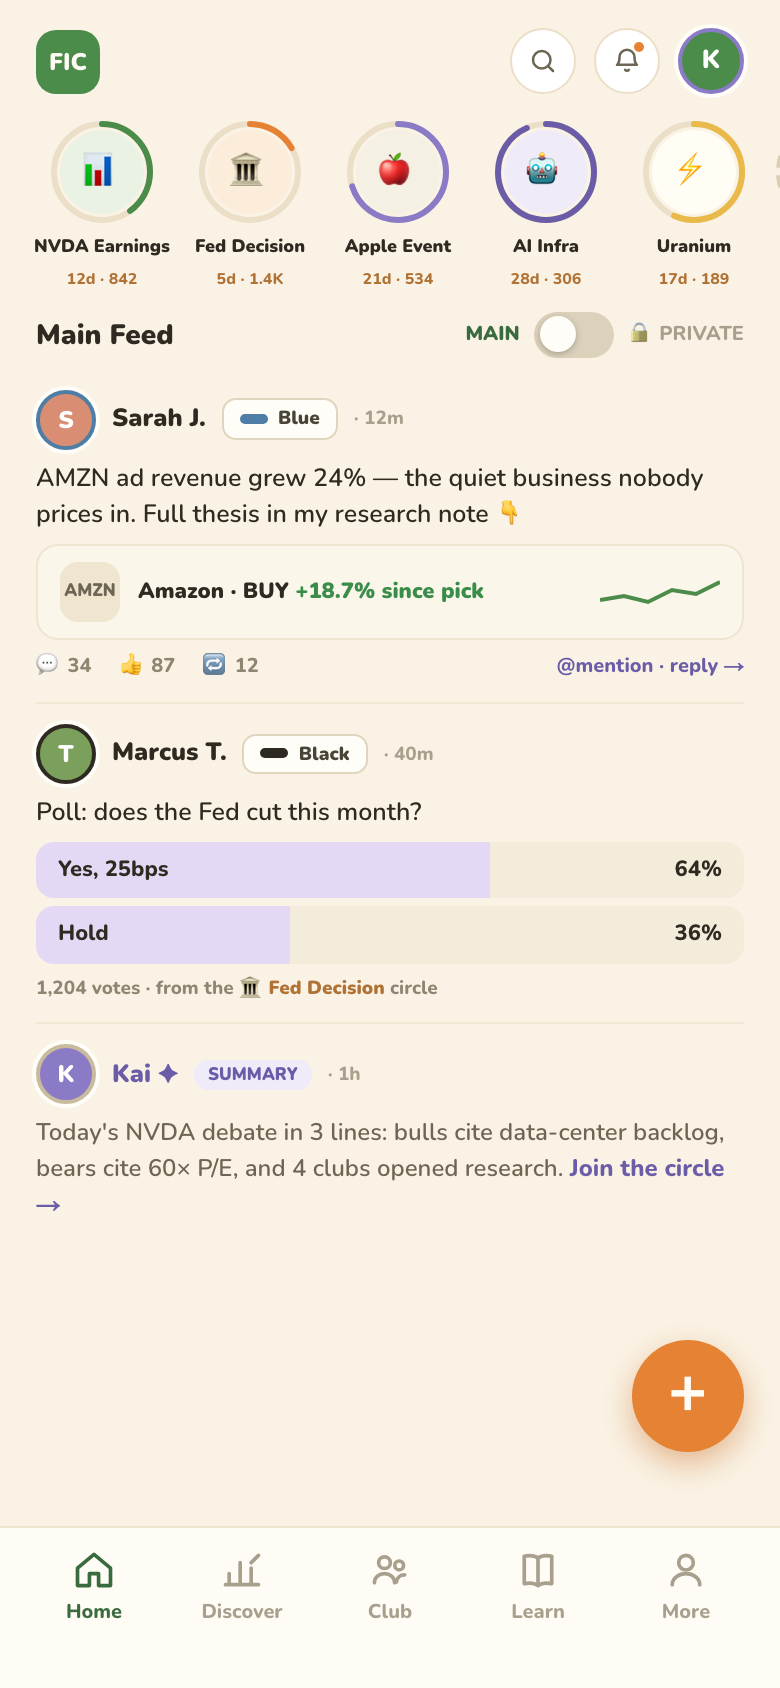
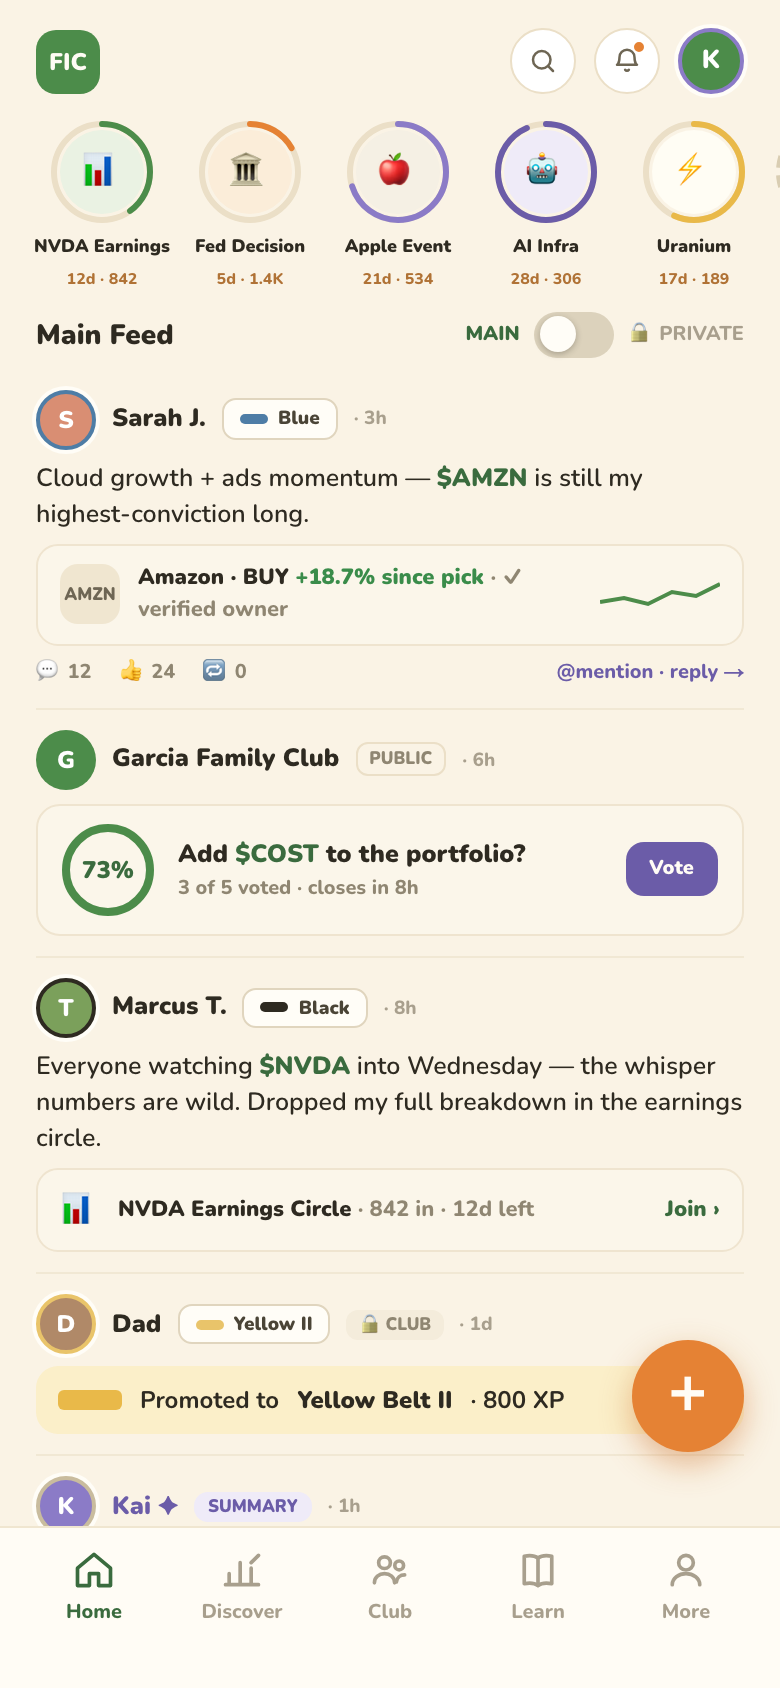
feat: prototype v3 leftovers — v3 main-feed posts, exact private club feed, ACT label, ceg-nuclear pick, share lands on the private feed

diff --git a/src/components/home/HomeV4.tsx b/src/components/home/HomeV4.tsx
@@ -5,7 +5,8 @@ import { cx } from "@/components/ui";
 import { BellIcon, SearchIcon } from "@/components/ui/icons";
 import { BarChip, RingAvatar } from "@/components/community/BarChip";
 import { CirclesRail } from "@/components/circles/CircleRing";
-import { circles, mainFeed, clubChat, type FeedPost } from "@/lib/fixtures/v12-social";
+import { circles, mainFeed, type FeedPost } from "@/lib/fixtures/v12-social";
+import { privateFeed } from "@/lib/fixtures/v12-social";
 import { openSheet } from "@/components/sheets/bus";
 import type { BeltColor } from "@/lib/types";
 
@@ -72,6 +73,12 @@ export function HomeV4({ belt, clubName, initialFeed, openProposal }: { belt: Be
   );
 }
 
+/** $TICKER mentions tap to the company page. */
+function Cash({ t }: { t: string }) {
+  const parts = t.split(/(\$[A-Z]{1,5})/g);
+  return <>{parts.map((x, i) => /^\$[A-Z]{1,5}$/.test(x) ? <Link key={i} href={`/discover/${x.slice(1)}`} className="text-green font-black">{x}</Link> : <span key={i}>{x}</span>)}</>;
+}
+
 function Author({ a }: { a: FeedPost extends infer T ? (T extends { author: infer A } ? A : never) : never }) {
   const x = a as { name: string; initial: string; bg: string; belt: BeltColor | null; beltLabel?: string };
   return (
@@ -100,6 +107,37 @@ function Post({ p, last }: { p: FeedPost; last: boolean }) {
       </div>
     );
   }
+  if (p.kind === "clubvote") {
+    return (
+      <div className={row}>
+        <div className="flex items-center gap-2"><RingAvatar initial={p.initial} bg="bg-green-2" ring={null} size={30} /><span className="text-[12.5px] font-black text-ink">{p.club}</span><span className="rounded-[6px] border border-line px-[6px] py-[1px] text-[8.5px] font-black text-ink-3">PUBLIC</span><span className="text-[9.5px] font-extrabold text-ink-4">· {p.ago}</span></div>
+        <div className="mt-[7px] flex items-center gap-3 bg-[#FBF6EA] border border-[#EFE4CF] rounded-[12px] px-3 py-[9px]">
+          <span className="w-[46px] h-[46px] rounded-full border-[4px] border-green-2 flex items-center justify-center text-[12px] font-black text-green shrink-0">{p.pct}%</span>
+          <span className="flex-1"><span className="block text-[12.5px] font-black text-ink"><Cash t={p.question} /></span><span className="block text-[10px] font-extrabold text-ink-3">{p.voted} of {p.eligible} voted · closes in {p.closesIn}</span></span>
+          <Link href={`/discover/${p.symbol}`} className="rounded-[9px] bg-purple-2 text-cream-text px-3 py-[6px] text-[10px] font-black">Vote</Link>
+        </div>
+      </div>
+    );
+  }
+  if (p.kind === "circleref") {
+    return (
+      <div className={row}>
+        <div className="flex items-center gap-2"><Author a={p.author} /><span className="text-[9.5px] font-extrabold text-ink-4">· {p.ago}</span></div>
+        <p className="mt-[5px] text-[12.5px] font-semibold text-ink leading-[1.45]"><Cash t={p.text} /></p>
+        <Link href={`/circle/${p.circleId}`} className="mt-[6px] flex items-center gap-[9px] bg-[#FBF6EA] border border-[#EFE4CF] rounded-[11px] px-[11px] py-2">
+          <span className="text-[16px]">📊</span><span className="flex-1 text-[11px] font-black text-ink">{p.circleLabel} <span className="text-ink-3 font-extrabold">· {p.people} in · {p.daysLeft}d left</span></span><span className="text-[11px] font-black text-green">Join ›</span>
+        </Link>
+      </div>
+    );
+  }
+  if (p.kind === "promotion") {
+    return (
+      <div className={row}>
+        <div className="flex items-center gap-2"><Author a={p.author} /><span className="rounded-[6px] bg-paper-2 px-[6px] py-[1px] text-[8.5px] font-black text-ink-3">{p.scope}</span><span className="text-[9.5px] font-extrabold text-ink-4">· {p.ago}</span></div>
+        <div className="mt-[6px] flex items-center gap-[9px] bg-[#FBEFC9] rounded-[11px] px-[11px] py-2 text-[12px] font-bold text-ink"><span className="w-8 h-[10px] rounded-[3px] bg-[#E9B949]" />Promoted to <b className="font-black">{p.toBelt}</b> · {p.xp} XP <span className="ml-auto">🎉</span></div>
+      </div>
+    );
+  }
   if (p.kind === "poll") {
     return (
       <div className={row}>
@@ -120,11 +158,11 @@ function Post({ p, last }: { p: FeedPost; last: boolean }) {
   return (
     <div className={row}>
       <div className="flex items-center gap-2"><Author a={p.author} /><span className="text-[9.5px] font-extrabold text-ink-4">· {p.ago}</span></div>
-      <p className="mt-[5px] text-[12.5px] font-semibold text-ink leading-[1.45]">{p.text}</p>
+      <p className="mt-[5px] text-[12.5px] font-semibold text-ink leading-[1.45]"><Cash t={p.text} /></p>
       {p.pick && (
         <Link href={`/discover/${p.pick.symbol}`} className="mt-[6px] flex items-center gap-[9px] bg-[#FBF6EA] border border-[#EFE4CF] rounded-[11px] px-[11px] py-2">
           <span className="w-[30px] h-[30px] rounded-[9px] bg-line-2 flex items-center justify-center text-[8.5px] font-black text-ink-2">{p.pick.symbol}</span>
-          <span className="flex-1 text-[11px] font-black text-ink">{p.pick.name} · {p.pick.stance} <span className="text-[#3A8C4A]">+{p.pick.sincePct}% since pick</span></span>
+          <span className="flex-1 text-[11px] font-black text-ink">{p.pick.name} · {p.pick.stance} <span className="text-[#3A8C4A]">+{p.pick.sincePct}% since pick</span> <span className="text-ink-3 font-extrabold">· ✓ verified owner</span></span>
           <svg width="60" height="16" viewBox="0 0 60 16" preserveAspectRatio="none" className="shrink-0"><polyline fill="none" stroke="#4C8C4A" strokeWidth="2" points={p.pick.spark.map((y, i) => `${i * 12},${y}`).join(" ")} /></svg>
         </Link>
       )}
@@ -151,38 +189,67 @@ function MinePost({ p, belt }: { p: LocalPost; belt: BeltColor }) {
 }
 
 function PrivateFeed({ clubName, proposal, mine, belt }: { clubName: string; proposal: { id: string; text: string; voted: number; eligible: number; hoursLeft: number } | null; mine: LocalPost[]; belt: BeltColor }) {
+  const [attach, setAttach] = useState(false);
+  const [draft, setDraft] = useState("");
+  const [sent, setSent] = useState<string[]>([]);
   return (
-    <div className="mt-[6px]">
-      {proposal && (
-        <div className="flex items-center gap-[10px] bg-purple-tint border border-purple-line rounded-[13px] px-[13px] py-[9px]">
-          <span className="text-[15px]">🗳</span>
-          <span className="flex-1 text-[11.5px] font-black text-ink">{proposal.text} · {proposal.voted}/{proposal.eligible} in</span>
-          <Link href={`/club/vote/${proposal.id}`} className="rounded-[9px] bg-purple-2 text-cream-text px-3 py-[6px] text-[10px] font-black">Vote</Link>
+    <div className="mt-[6px] relative">
+      <div className="flex items-center gap-2 bg-card border border-line rounded-[13px] px-3 py-2">
+        <span className="flex -space-x-2">{[["K", "bg-green-2"], ["D", "bg-[#B08968]"], ["A", "bg-green-3"]].map(([i, c]) => <span key={i} className={cx("w-7 h-7 rounded-full text-white text-[10px] font-black flex items-center justify-center border-2 border-[#FFFDF7]", c)}>{i}</span>)}</span>
+        <span className="flex-1"><span className="block text-[12.5px] font-black text-ink">{clubName}</span><span className="block text-[10px] font-extrabold text-green">● 3 online</span></span>
+        <Link href="/club" className="text-[11px] font-black text-green">Club page ›</Link>
+      </div>
+      <div className="mt-2 flex flex-col gap-[9px]">
+        {privateFeed.slice(0, 3).map((m) => <PrivateBubble key={m.id} m={m} />)}
+        {proposal && (
+          <div className="flex items-center gap-[10px] bg-purple-tint border border-purple-line rounded-[13px] px-[13px] py-[9px]">
+            <span className="text-[15px]">🗳</span>
+            <span className="flex-1"><span className="block text-[11.5px] font-black text-ink"><Cash t={`Vote open: $CEG 4% → 8%`} /></span><span className="block text-[10px] font-extrabold text-ink-3">{proposal.voted}/{proposal.eligible} in · {proposal.hoursLeft}h left · waiting on you</span></span>
+            <Link href={`/club/vote/${proposal.id}`} className="rounded-[9px] bg-purple-2 text-cream-text px-3 py-[6px] text-[10px] font-black">Vote</Link>
+          </div>
+        )}
+        {privateFeed.slice(3).map((m) => <PrivateBubble key={m.id} m={m} />)}
+        {mine.map((p) => <MinePost key={p.id} p={p} belt={belt} />)}
+        {sent.map((t, i) => <div key={i} className="flex justify-end"><div className="max-w-[82%] bg-green-tint border border-green-line rounded-[13px_3px_13px_13px] px-3 py-2 text-[12px] font-semibold text-ink"><Cash t={t} /></div></div>)}
+      </div>
+      <div className="mt-3 flex items-center gap-2 bg-card border border-line rounded-[14px] px-3 py-2">
+        <button type="button" onClick={() => setAttach(true)} aria-label="Attach" className="text-[16px] font-black text-ink-3">＋</button>
+        <input value={draft} onChange={(e) => setDraft(e.target.value)} onKeyDown={(e) => { if (e.key === "Enter" && draft.trim()) { setSent((x) => [...x, draft.trim()]); setDraft(""); } }} placeholder="Message the club…" className="flex-1 bg-transparent text-[12.5px] font-bold text-ink placeholder:text-ink-4 outline-none" />
+        <button type="button" onClick={() => { if (draft.trim()) { setSent((x) => [...x, draft.trim()]); setDraft(""); } }} aria-label="Send" className="w-7 h-7 rounded-full bg-green text-cream-text text-[12px] font-black">↑</button>
+      </div>
+      {attach && (
+        <div className="fixed inset-0 z-[60] flex flex-col justify-end" role="dialog" aria-label="Add to your message">
+          <button aria-label="Cancel" onClick={() => setAttach(false)} className="absolute inset-0 bg-[#2E2A21]/45" />
+          <div className="relative bg-card rounded-t-[24px] px-[18px] pt-3 pb-[calc(24px+env(safe-area-inset-bottom))] sm:max-w-[402px] sm:mx-auto sm:w-full">
+            <div className="mx-auto w-10 h-[5px] rounded-full bg-line-3" />
+            <div className="mt-3 text-[10px] font-black tracking-[0.5px] text-ink-3">{clubName.toUpperCase()}</div>
+            <div className="text-[16px] font-black text-ink">Add to your message</div>
+            {([["📷", "Photo or video", "camera roll or record now", () => setAttach(false)],
+              ["📈", "Trade idea", "structured pick card — ticker, stance, why", () => { setAttach(false); openSheet("pick", { symbol: "NVDA" }); }],
+              ["📊", "Poll", "let the club vote on anything", () => { setAttach(false); openSheet("compose", { audience: "club" }); }],
+              ["📎", "Research artifact", "attach a thesis, chart or Kai summary", () => { setAttach(false); openSheet("compose", { audience: "club" }); }]] as [string, string, string, () => void][]).map(([e, t, d, fn]) => (
+              <button key={t} type="button" onClick={fn} className="mt-2 w-full flex items-center gap-3 rounded-[13px] border border-line bg-paper px-3 py-[10px] text-left"><span className="text-[18px]">{e}</span><span className="flex-1"><span className="block text-[13px] font-black text-ink">{t}</span><span className="block text-[10.5px] font-extrabold text-ink-3">{d}</span></span><span className="text-ink-4">›</span></button>
+            ))}
+            <button onClick={() => setAttach(false)} className="mt-3 w-full h-11 rounded-[14px] bg-card border border-line text-[13px] font-black text-ink-2">Cancel</button>
+          </div>
         </div>
       )}
-      <div className="mt-2 text-center text-[9px] font-black tracking-[0.5px] text-ink-4">— TODAY —</div>
-      <div className="mt-1 flex flex-col gap-[9px]">
-        {mine.map((p) => <MinePost key={p.id} p={p} belt={belt} />)}
-        {clubChat.map((m) => (
-          <div key={m.id}>
-            <div className="flex gap-2">
-              <RingAvatar initial={m.author.initial} bg={m.author.bg} ring={m.author.belt} size={28} />
-              <div className="max-w-[82%]">
-                <div className="bg-card border border-line rounded-[3px_13px_13px_13px] px-3 py-2">
-                  <div className="text-[10px] font-black text-ink">{m.author.name}</div>
-                  <div className="text-[12px] font-semibold text-ink leading-[1.4] mt-[2px]">{m.text}</div>
-                  {m.artifact && <div className="mt-1 inline-flex items-center gap-[6px] bg-[#FBF6EA] rounded-[9px] px-[9px] py-[5px] text-[10px] font-black text-ink-2"><span className="rounded-[6px] bg-line-2 px-[6px] py-[1px] text-[8.5px]">{m.artifact.symbol}</span><span className="text-[#3A8C4A]">{m.artifact.line}</span></div>}
-                </div>
-                {m.readBy && <div className="text-[9px] font-extrabold text-ink-4 mt-[2px] text-right">read by {m.readBy}</div>}
-              </div>
-            </div>
-            {m.system && <div className="mt-[6px] text-center text-[9.5px] font-black text-[#7A5A00] bg-[#FBEFC9] rounded-[9px] px-3 py-[5px]">{m.system}</div>}
-          </div>
-        ))}
+    </div>
+  );
+}
+
+function PrivateBubble({ m }: { m: (typeof privateFeed)[number] }) {
+  if (m.mine) return <div className="flex justify-end"><div className="max-w-[82%] bg-green-tint border border-green-line rounded-[13px_3px_13px_13px] px-3 py-2"><div className="text-[12px] font-semibold text-ink"><Cash t={m.text} /></div></div></div>;
+  return (
+    <div className="flex gap-2">
+      <RingAvatar initial={m.initial} bg={m.bg} ring={m.belt} size={28} />
+      <div className="max-w-[82%]">
+        <div className="bg-card border border-line rounded-[3px_13px_13px_13px] px-3 py-2">
+          <div className="text-[10px] font-black text-ink">{m.name}{m.grad ? " 🎓" : ""} <span className="text-ink-4 font-extrabold">· {m.time}</span></div>
+          <div className="text-[12px] font-semibold text-ink leading-[1.4] mt-[2px]"><Cash t={m.text} /></div>
+          {m.artifact && <Link href={m.artifact.href} className="mt-[6px] flex items-center gap-2 bg-[#FBF6EA] rounded-[9px] px-[9px] py-[6px]"><span className="rounded-[6px] bg-line-2 px-[6px] py-[1px] text-[8.5px] font-black text-ink-2">{m.artifact.symbol}</span><span className="flex-1"><span className="block text-[11px] font-black text-ink">{m.artifact.title}</span><span className="block text-[9.5px] font-extrabold text-ink-3">{m.artifact.sub}</span></span><span className="text-[10.5px] font-black text-green">Open ›</span></Link>}
+        </div>
       </div>
-      <Link href="/club" className="mt-3 flex items-center justify-between rounded-[13px] bg-card border border-line px-[13px] py-[10px] text-[12px] font-black text-ink">
-        <span>🔒 {clubName}</span><span className="text-green">Open club ›</span>
-      </Link>
     </div>
   );
 }

diff --git a/src/lib/fixtures/v12-social.ts b/src/lib/fixtures/v12-social.ts
@@ -16,15 +16,30 @@ export type FeedAuthor = { name: string; initial: string; bg: string; belt: Belt
 export type FeedPost =
   | { kind: "text"; id: string; author: FeedAuthor; ago: string; text: string; pick?: { symbol: string; name: string; stance: "BUY" | "WATCH" | "PASS"; sincePct: number; spark: number[] }; replies: number; likes: number; reposts: number }
   | { kind: "poll"; id: string; author: FeedAuthor; ago: string; question: string; options: { label: string; pct: number }[]; votes: number; circleId: string; circleLabel: string }
-  | { kind: "kai"; id: string; ago: string; text: string; circleId: string };
+  | { kind: "kai"; id: string; ago: string; text: string; circleId: string }
+  | { kind: "clubvote"; id: string; club: string; initial: string; ago: string; pct: number; question: string; voted: number; eligible: number; closesIn: string; symbol: string }
+  | { kind: "circleref"; id: string; author: FeedAuthor; ago: string; text: string; circleId: string; circleLabel: string; people: number; daysLeft: number }
+  | { kind: "promotion"; id: string; author: FeedAuthor; ago: string; toBelt: string; xp: number; scope: string };
 
 export const SARAH: FeedAuthor = { name: "Sarah J.", initial: "S", bg: "bg-coral", belt: "blue", beltLabel: "Blue" };
 export const MARCUS: FeedAuthor = { name: "Marcus T.", initial: "T", bg: "bg-green-3", belt: "black", beltLabel: "Black" };
 
+const DAD: FeedAuthor = { name: "Dad", initial: "D", bg: "bg-[#B08968]", belt: "yellow", beltLabel: "Yellow II" };
 export const mainFeed: FeedPost[] = [
-  { kind: "text", id: "p1", author: SARAH, ago: "12m", text: "AMZN ad revenue grew 24% — the quiet business nobody prices in. Full thesis in my research note 👇", pick: { symbol: "AMZN", name: "Amazon", stance: "BUY", sincePct: 18.7, spark: [12, 10, 13, 7, 9, 3] }, replies: 34, likes: 87, reposts: 12 },
-  { kind: "poll", id: "p2", author: MARCUS, ago: "40m", question: "Poll: does the Fed cut this month?", options: [{ label: "Yes, 25bps", pct: 64 }, { label: "Hold", pct: 36 }], votes: 1204, circleId: "fed-decision", circleLabel: "🏛 Fed Decision" },
-  { kind: "kai", id: "p3", ago: "1h", text: "Today's NVDA debate in 3 lines: bulls cite data-center backlog, bears cite 60× P/E, and 4 clubs opened research.", circleId: "nvda-earnings" },
+  { kind: "text", id: "p1", author: SARAH, ago: "3h", text: "Cloud growth + ads momentum — $AMZN is still my highest-conviction long.", pick: { symbol: "AMZN", name: "Amazon", stance: "BUY", sincePct: 18.7, spark: [12, 10, 13, 7, 9, 3] }, replies: 12, likes: 24, reposts: 0 },
+  { kind: "clubvote", id: "p2", club: "Garcia Family Club", initial: "G", ago: "6h", pct: 73, question: "Add $COST to the portfolio?", voted: 3, eligible: 5, closesIn: "8h", symbol: "COST" },
+  { kind: "circleref", id: "p3", author: MARCUS, ago: "8h", text: "Everyone watching $NVDA into Wednesday — the whisper numbers are wild. Dropped my full breakdown in the earnings circle.", circleId: "nvda-earnings", circleLabel: "NVDA Earnings Circle", people: 842, daysLeft: 12 },
+  { kind: "promotion", id: "p4", author: DAD, ago: "1d", toBelt: "Yellow Belt II", xp: 800, scope: "🔒 CLUB" },
+  { kind: "kai", id: "p5", ago: "1h", text: "Today's NVDA debate in 3 lines: bulls cite data-center backlog, bears cite 60× P/E, and 4 clubs opened research.", circleId: "nvda-earnings" },
+];
+/** Prototype v3 `homeprivate`: the club chat inline, with times. */
+export type PrivateMsg = { id: string; who: "dad" | "mom" | "kway" | "arielle"; name: string; initial: string; bg: string; belt: BeltColor | null; time: string; text: string; mine?: boolean; grad?: boolean;
+  artifact?: { symbol: string; title: string; sub: string; href: string } };
+export const privateFeed: PrivateMsg[] = [
+  { id: "h1", who: "dad", name: "Dad", initial: "D", bg: "bg-[#B08968]", belt: "yellow", time: "9:12", text: "Everyone see the $CEG contract news? Thesis is playing out fast 👀" },
+  { id: "h2", who: "mom", name: "Mom", initial: "M", bg: "bg-coral", belt: "white", time: "9:31", text: "Finished the $COST write-up — renewals are the whole moat.", artifact: { symbol: "COST", title: "Costco research", sub: "4 sources · ready to propose", href: "/club?tab=decisions" } },
+  { id: "h3", who: "kway", name: "Kway", initial: "K", bg: "bg-green-2", belt: "purple", time: "9:40", text: "Reading it now — if margins held I'm a yes", mine: true },
+  { id: "h4", who: "arielle", name: "Arielle", initial: "A", bg: "bg-gold", belt: "white", time: "11:05", text: "Passed the energy quiz 10/10 — I can vote now! 🎓", grad: true },
 ];
 
 export type CircleMessage =

diff --git a/src/components/shell/PlusFab.tsx b/src/components/shell/PlusFab.tsx
@@ -16,9 +16,12 @@ export function PlusFab() {
 }
 function FabWithParams() {
   const sp = useSearchParams();
-  return <FabInner initialOpen={sp.get("plus") === "1"} />;
+  return <FabInner initialOpen={sp.get("plus") === "1"} privateFeed={sp.get("feed") === "private"} />;
 }
-function FabInner({ initialOpen }: { initialOpen: boolean }) {
+function FabInner({ initialOpen, privateFeed = false }: { initialOpen: boolean; privateFeed?: boolean }) {
+  const [act, setAct] = useState(false);
+  // eslint-disable-next-line react-hooks/set-state-in-effect -- label switches after mount to avoid an SSR mismatch
+  useEffect(() => { setAct(privateFeed); }, [privateFeed]);
   const sheet = useSheet();
   const path = usePathname();
   const [open, setOpen] = useState(false);
@@ -34,7 +37,7 @@ function FabInner({ initialOpen }: { initialOpen: boolean }) {
       {!sheet && !hidden && (
         <button type="button" aria-label={open ? "Close" : "What do you want to do?"} aria-expanded={open} onClick={() => setOpen((v) => !v)}
           className={`absolute right-[18px] bottom-[118px] z-[48] w-14 h-14 rounded-full bg-orange text-cream-text flex items-center justify-center active:scale-95 transition ${open ? "shadow-[0_6px_16px_rgba(201,109,37,0.5),0_0_0_5px_rgba(255,253,247,0.9)]" : "shadow-[0_6px_16px_rgba(201,109,37,0.45)]"}`}>
-          <span className={`text-[26px] font-black leading-none inline-block transition-transform ${open ? "rotate-45" : ""}`}>＋</span>{!open && path.startsWith("/club") && <span className="ml-[2px] text-[11px] font-black tracking-[0.5px]">ACT</span>}
+          <span className={`text-[26px] font-black leading-none inline-block transition-transform ${open ? "rotate-45" : ""}`}>＋</span>{!open && (path.startsWith("/club") || act) && <span className="ml-[2px] text-[11px] font-black tracking-[0.5px]">ACT</span>}
         </button>
       )}
       <SheetHost />

diff --git a/src/components/sheets/PickSheet.tsx b/src/components/sheets/PickSheet.tsx
@@ -1,5 +1,6 @@
 "use client";
 import { useEffect, useState } from "react";
+import { useRouter } from "next/navigation";
 import { api } from "@/lib/live/client";
 import { SheetFrame } from "./SheetFrame";
 import { showXp } from "./bus";
@@ -12,6 +13,7 @@ const NAMES: Record<string, string> = { NVDA: "Nvidia", AAPL: "Apple", COST: "Co
 /** Prototype v2 `pick`: "$1,204.10 · NVDA · Your Pick on Nvidia · timestamped · tracked from today". Live price; api.pick when signed in, localStorage otherwise. */
 export function PickSheet({ onClose, symbol = "NVDA" }: { onClose: () => void; symbol?: string }) {
   const sym = symbol.toUpperCase();
+  const router = useRouter();
   const [price, setPrice] = useState<{ price: number; changePct: number } | null>(null);
   const [stance, setStance] = useState<Stance>("buy");
   const [why, setWhy] = useState("");
@@ -31,6 +33,7 @@ export function PickSheet({ onClose, symbol = "NVDA" }: { onClose: () => void; s
       try { const k = "fic.picks"; const cur = JSON.parse(localStorage.getItem(k) ?? "[]"); cur.unshift({ id: `local-${Date.now()}`, ...body, priceAtPick: price?.price ?? null, at: new Date().toISOString() }); localStorage.setItem(k, JSON.stringify(cur)); } catch { /* ignore */ }
     }
     setBusy(false); showXp(8); onClose();
+    router.push(to === "club" ? "/home?feed=private" : "/home");
   }
   return (
     <SheetFrame onClose={onClose} height="tall">

diff --git a/src/lib/fixtures/club.ts b/src/lib/fixtures/club.ts
@@ -36,6 +36,7 @@ const nvdaReplies: Comment[] = [
 ];
 export const picks: Pick[] = [
   { id: "andwele-nvda", clubId: "mensah", authorId: "andwele", author: "Andwele", ago: "2h", symbol: "NVDA", name: "NVIDIA Corp.", stance: "buy", reason: "Their chips are in everything AI. Every data center being built needs them.", horizon: "3y", confidence: 3, priceAtPick: 1204, agree: 2, notSure: 1, replies: nvdaReplies, visibility: "club" },
+  { id: "ceg-nuclear", clubId: "mensah", authorId: "kway", author: "Kway", ago: "Jul 2", symbol: "CEG", name: "Constellation Energy", stance: "buy", reason: "From the ⚡ Nuclear idea — AI data centers need baseload power. Club holds 8%.", horizon: "5y+", confidence: 4, priceAtPick: 264.2, agree: 3, notSure: 0, replies: [], visibility: "club" },
   { id: "andwele-aapl", clubId: "mensah", authorId: "andwele", author: "Andwele", ago: "3d", symbol: "AAPL", name: "Apple Inc.", stance: "buy", reason: "Services money is the quiet giant.", horizon: "5y+", confidence: 4, priceAtPick: 224.1, agree: 1, notSure: 0, replies: [], visibility: "club" },
   { id: "mom-cost", clubId: "mensah", authorId: "mom", author: "Mom", ago: "1w", symbol: "COST", name: "Costco Wholesale", stance: "watch", reason: "Membership renewals at 93% — that's the moat.", horizon: "3y", confidence: 3, priceAtPick: 1071.5, agree: 3, notSure: 0, replies: [], visibility: "club" },
 ];
